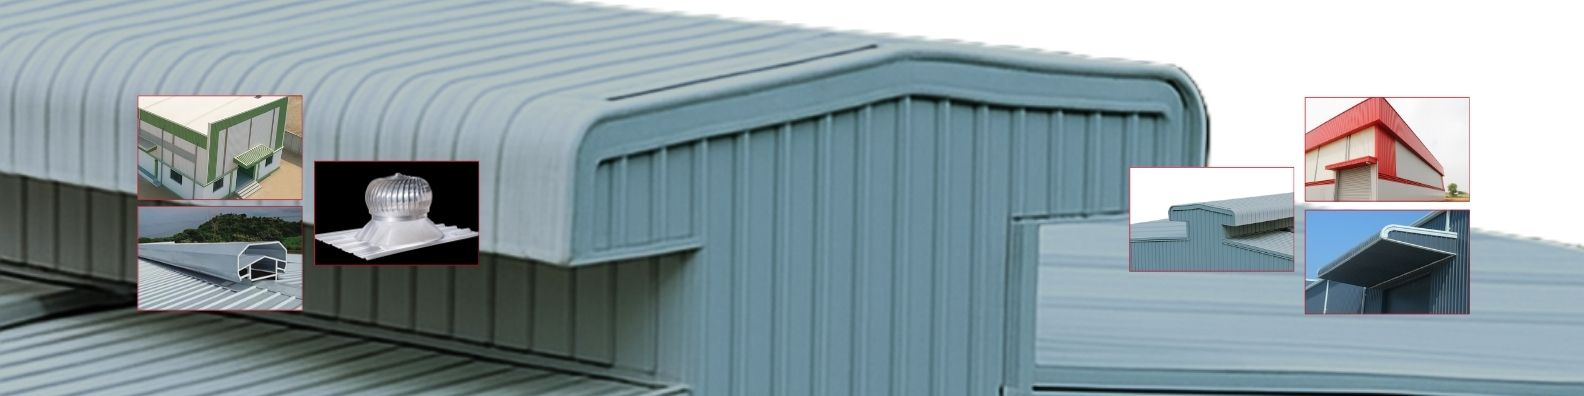
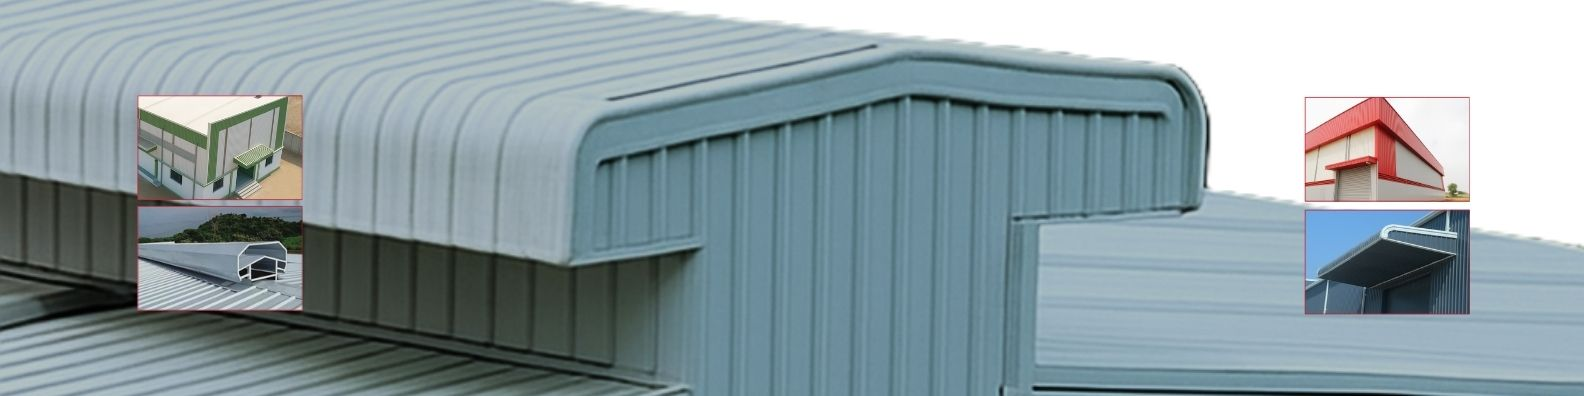
update images and change grid UI

Changed region(s): [[0.1856, 0.3939, 0.3093, 0.697], [0.7115, 0.3939, 0.8352, 0.697]]

diff --git a/public/content.js b/public/content.js
@@ -344,11 +344,11 @@ export const PROJECTS = [
         industry: "Logistics",
         area: "85,000 sq.ft",
         scope: "PEB Warehouse with 12m clear height, 8 dock levelers",
-        image: "/images/projects/alliance_Recpet.jpg",
+        image: "/images/projects/alliance_recpet.webp",
         year: "2023",
         tag: "Logistics",
         images: [
-            '/images/projects/alliance_Recpet.jpg',
+            '/images/projects/alliance_recpet.webp',
         ]
     },
     {
@@ -358,11 +358,11 @@ export const PROJECTS = [
         industry: "Automobile",
         area: "1,20,000 sq.ft",
         scope: "Heavy steel structure with 50T overhead crane",
-        image: "/images/projects/arc7_metals.jpg",
+        image: "/images/projects/arc7_metals.webp",
         year: "2023",
         tag: "Automobile",
         images: [
-            '/images/projects/arc7_metals.jpg',
+            '/images/projects/arc7_metals.webp',
         ]
     },
     {
@@ -372,11 +372,11 @@ export const PROJECTS = [
         industry: "Pharmaceutical",
         area: "45,000 sq.ft",
         scope: "Clean room factory building with controlled environment",
-        image: "/images/projects/cmp_factory_shed.JPG",
+        image: "/images/projects/cmp_factory_shed.webp",
         year: "2022",
         tag: "Pharmaceutical",
         images: [
-            '/images/projects/cmp_factory_shed.JPG',
+            '/images/projects/cmp_factory_shed.webp',
         ]
     },
     {
@@ -386,11 +386,11 @@ export const PROJECTS = [
         industry: "Warehousing",
         area: "2,00,000 sq.ft",
         scope: "Multi-level PEB warehouse with mezzanine floors",
-        image: "/images/projects/cr3_1.jpg",
+        image: "/images/projects/cr3_1.webp",
         year: "2023",
         tag: "Warehousing",
         images: [
-            '/images/projects/cr3_1.jpg',
+            '/images/projects/cr3_1.webp',
         ]
     },
     {
@@ -400,12 +400,12 @@ export const PROJECTS = [
         industry: "Renewable Energy",
         area: "3,50,000 sq.ft",
         scope: "Solar panel mounting structures and control room",
-        image: "/images/projects/flair_cryosil.jpg",
+        image: "/images/projects/flair_cryosil.webp",
         year: "2022",
         tag: "Renewable Energy",
         images: [
-            '/images/projects/flair_cryosil.jpg',
-            '/images/projects/flair_plastics.jpg'
+            '/images/projects/flair_cryosil.webp',
+            '/images/projects/flair_plastics.webp'
         ]
     },
     {
@@ -415,12 +415,12 @@ export const PROJECTS = [
         industry: "Food Processing",
         area: "60,000 sq.ft",
         scope: "Hygienic factory building with HACCP compliance",
-        image: "/images/projects/godwitt.JPG",
+        image: "/images/projects/godwitt.webp",
         year: "2022",
         tag: "Food Processing",
         images: [
-            '/images/projects/godwitt.JPG',
-            '/images/projects/godwitt1.jpg',
+            '/images/projects/godwitt.webp',
+            '/images/projects/godwitt1.webp',
         ]
     },
     {
@@ -430,11 +430,11 @@ export const PROJECTS = [
         industry: "Textile",
         area: "75,000 sq.ft",
         scope: "PEB factory with humidity-controlled environment",
-        image: "/images/projects/maruti_suzuki.jpg",
+        image: "/images/projects/maruti_suzuki.webp",
         year: "2021",
         tag: "Textile",
         images: [
-            '/images/projects/maruti_suzuki.jpg',
+            '/images/projects/maruti_suzuki.webp',
         ]
     },
     {
@@ -444,11 +444,11 @@ export const PROJECTS = [
         industry: "Manufacturing",
         area: "95,000 sq.ft",
         scope: "Heavy industrial shed with 100T crane girder",
-        image: "/images/projects/mehali.jpg",
+        image: "/images/projects/mehali1.webp",
         year: "2021",
         tag: "Manufacturing",
         images: [
-            '/images/projects/mehali.jpg',
+            '/images/projects/mehali1.webp',
         ]
     },
     {
@@ -458,11 +458,11 @@ export const PROJECTS = [
         industry: "Manufacturing",
         area: "95,000 sq.ft",
         scope: "Heavy industrial shed with 100T crane girder",
-        image: "/images/projects/polymatrix.JPG",
+        image: "/images/projects/polymatrix.webp",
         year: "2021",
         tag: "Manufacturing",
         images: [
-            '/images/projects/polymatrix.JPG',
+            '/images/projects/polymatrix.webp',
         ]
     },
     {
@@ -472,11 +472,11 @@ export const PROJECTS = [
         industry: "Manufacturing",
         area: "95,000 sq.ft",
         scope: "Heavy industrial shed with 100T crane girder",
-        image: "/images/projects/plas_o_pack.JPG",
+        image: "/images/projects/plas_o_pack.webp",
         year: "2021",
         tag: "Manufacturing",
         images: [
-            '/images/projects/plas_o_pack.JPG',
+            '/images/projects/plas_o_pack.webp',
         ]
     },
     {
@@ -486,11 +486,11 @@ export const PROJECTS = [
         industry: "Manufacturing",
         area: "95,000 sq.ft",
         scope: "Heavy industrial shed with 100T crane girder",
-        image: "/images/projects/savitaoil.jpg",
+        image: "/images/projects/savitaoil.webp",
         year: "2021",
         tag: "Manufacturing",
         images: [
-            '/images/projects/savitaoil.jpg',
+            '/images/projects/savitaoil.webp',
         ]
     },
     {
@@ -500,12 +500,12 @@ export const PROJECTS = [
         industry: "Manufacturing",
         area: "95,000 sq.ft",
         scope: "Heavy industrial shed with 100T crane girder",
-        image: "/images/projects/sud_chemie1.jpg",
+        image: "/images/projects/sud_chemie1.webp",
         year: "2021",
         tag: "Manufacturing",
         images: [
-            '/images/projects/sud_chemie1.jpg',
-            '/images/projects/sud_chemie2.JPG'
+            '/images/projects/sud_chemie1.webp',
+            '/images/projects/sud_chemie2.webp'
         ]
     },
     {
@@ -515,11 +515,11 @@ export const PROJECTS = [
         industry: "Manufacturing",
         area: "95,000 sq.ft",
         scope: "Heavy industrial shed with 100T crane girder",
-        image: "/images/projects/surja_extrusion.JPG",
+        image: "/images/projects/surja_extrusion.webp",
         year: "2021",
         tag: "Manufacturing",
         images: [
-            '/images/projects/surja_extrusion.JPG',
+            '/images/projects/surja_extrusion.webp',
         ]
     },
     {
@@ -529,11 +529,11 @@ export const PROJECTS = [
         industry: "Manufacturing",
         area: "95,000 sq.ft",
         scope: "Heavy industrial shed with 100T crane girder",
-        image: "/images/projects/surja_extrusion.JPG",
+        image: "/images/projects/surja_extrusion.webp",
         year: "2021",
         tag: "Manufacturing",
         images: [
-            '/images/projects/surja_extrusion.JPG',
+            '/images/projects/surja_extrusion.webp',
         ]
     },
     {
@@ -543,11 +543,11 @@ export const PROJECTS = [
         industry: "Manufacturing",
         area: "95,000 sq.ft",
         scope: "Heavy industrial shed with 100T crane girder",
-        image: "/images/projects/v_trans.jpg",
+        image: "/images/projects/v_trans.webp",
         year: "2021",
         tag: "Manufacturing",
         images: [
-            '/images/projects/v_trans.jpg',
+            '/images/projects/v_trans.webp',
         ]
     },
 ];

diff --git a/src/pages/Projects.jsx b/src/pages/Projects.jsx
@@ -84,7 +84,7 @@ export default function Projects() {
               <p className="text-gray-400 text-base">No projects found for this filter.</p>
             </div>
           ) : (
-            <div className="grid grid-cols-1 sm:grid-cols-2 lg:grid-cols-3 xl:grid-cols-4 gap-5">
+            <div className="grid grid-cols-1 sm:grid-cols-2 lg:grid-cols-3 xl:grid-cols-3 gap-5">
               {filtered.map((project, i) => (
                 <div
                   key={project.id}
@@ -164,7 +164,7 @@ export default function Projects() {
                     <img
                       src={galleryImages[imageIdx]}
                       alt={`${selected.title} — image ${imageIdx + 1}`}
-                      className="w-full h-full object-cover transition-opacity duration-300"
+                      className="w-full h-full object-fill transition-opacity duration-300"
                     />
                     {galleryImages.length > 1 && (
                       <>
@@ -208,7 +208,7 @@ export default function Projects() {
                           <img
                             src={img}
                             alt=""
-                            className="w-full h-full object-cover"
+                            className="w-full h-full object-fill"
                           />
                         </button>
                       ))}

diff --git a/src/components/ImagePreview.jsx b/src/components/ImagePreview.jsx
@@ -33,7 +33,7 @@ const ImagePreview = ({ images = [], initialIndex = 0, onClose }) => {
                 <img
                     src={currentImage.image}
                     alt={currentImage.title}
-                    className="w-full h-full object-cover"
+                    className="w-full h-full object-fill"
                 />
                 {/* Close */}
                 <button
@@ -92,7 +92,7 @@ const ImagePreview = ({ images = [], initialIndex = 0, onClose }) => {
                             <img
                                 src={img.image}
                                 alt={img.title}
-                                className="w-full h-full object-cover"
+                                className="w-full h-full object-fill"
                             />
                         </button>
                     ))}

diff --git a/src/index.css b/src/index.css
@@ -294,6 +294,7 @@ input, textarea, select {
   overflow: hidden;
   border-radius: 10px;
   cursor: pointer;
+  height: 270px;
   box-shadow: 0 2px 16px rgba(0,0,0,0.07);
 }
 
@@ -301,7 +302,7 @@ input, textarea, select {
   transition: transform 0.55s ease;
   width: 100%;
   height: 100%;
-  object-fit: cover;
+  /* object-fit: fill; */
 }
 
 .project-card:hover img { transform: scale(1.06); }
@@ -2486,7 +2487,7 @@ input, textarea, select {
 .gallery-lightbox__image {
   width: 100%;
   height: 100%;
-  object-fit: cover;
+  object-fit: fill;
 }
 
 .gallery-lightbox__meta {
@@ -2591,7 +2592,7 @@ input, textarea, select {
 .gallery-lightbox__thumb img {
   width: 100%;
   height: 100%;
-  object-fit: cover;
+  object-fit: fill;
 }
 
 .gallery-lightbox__thumb:hover,

diff --git a/src/pages/Home.jsx b/src/pages/Home.jsx
@@ -439,8 +439,8 @@ export default function Home() {
           </div>
 
           {/* Grid */}
-          <div className="grid grid-cols-1 sm:grid-cols-2 lg:grid-cols-4 gap-5">
-            {PROJECTS?.slice(0, 8).map((project, i) => (
+          <div className="grid grid-cols-1 sm:grid-cols-2 lg:grid-cols-3 gap-5">
+            {PROJECTS?.slice(0, 6).map((project, i) => (
               <div
                 key={project.id}
                 className="project-card h-64 animate-on-scroll"
